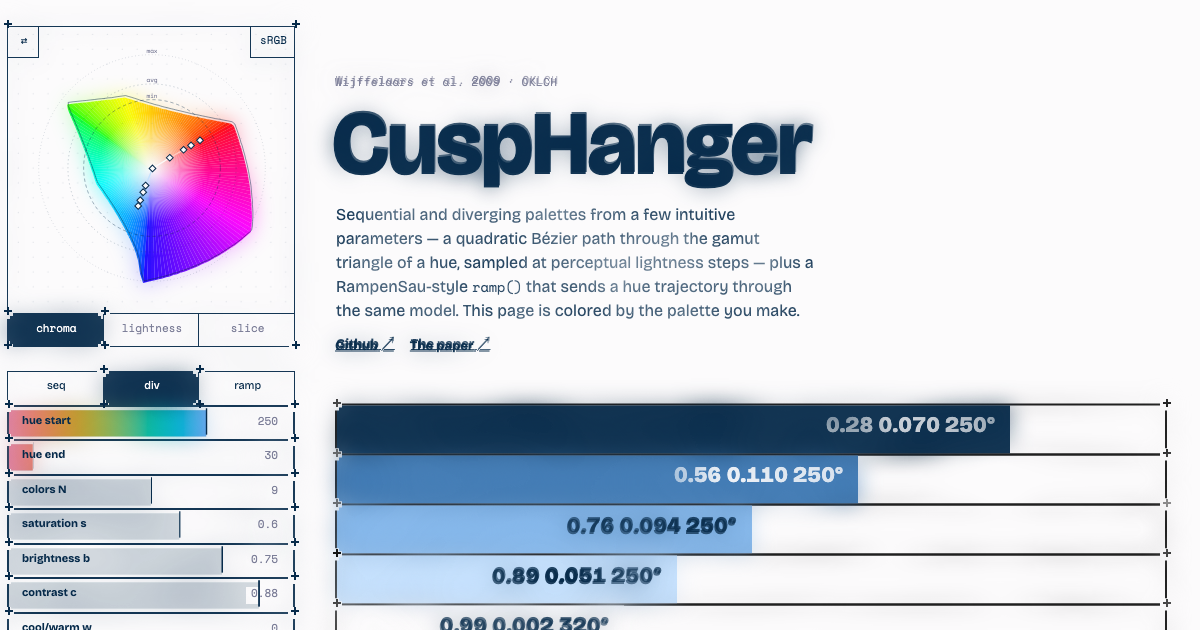
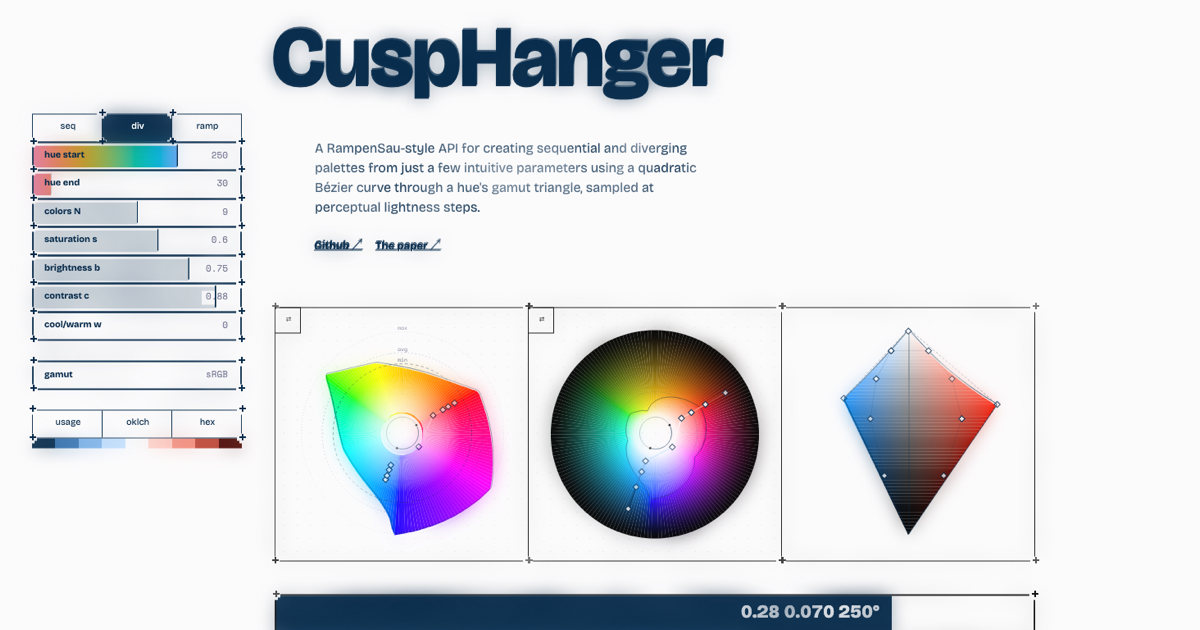
feat: new OG image for the redesigned demo
1200x630 headless capture of the current layout: wordmark, intro,
rail with palette strip, the three gamut views, first band peeking.
Alt text updated to match.

diff --git a/src/demo/index.html b/src/demo/index.html
@@ -23,7 +23,7 @@
     <meta property="og:image:height" content="630" />
     <meta
       property="og:image:alt"
-      content="The CuspHanger demo: an OKLCH gamut wheel, parameter sliders, and a diverging blue-to-red palette rendered as labeled bars."
+      content="The CuspHanger demo: three OKLCH gamut views — chroma wheel, lightness wheel, and a gamut slice — beside parameter sliders, with a diverging blue-to-red palette below."
     />
     <meta name="twitter:card" content="summary_large_image" />
     <meta name="twitter:creator" content="@meodai" />